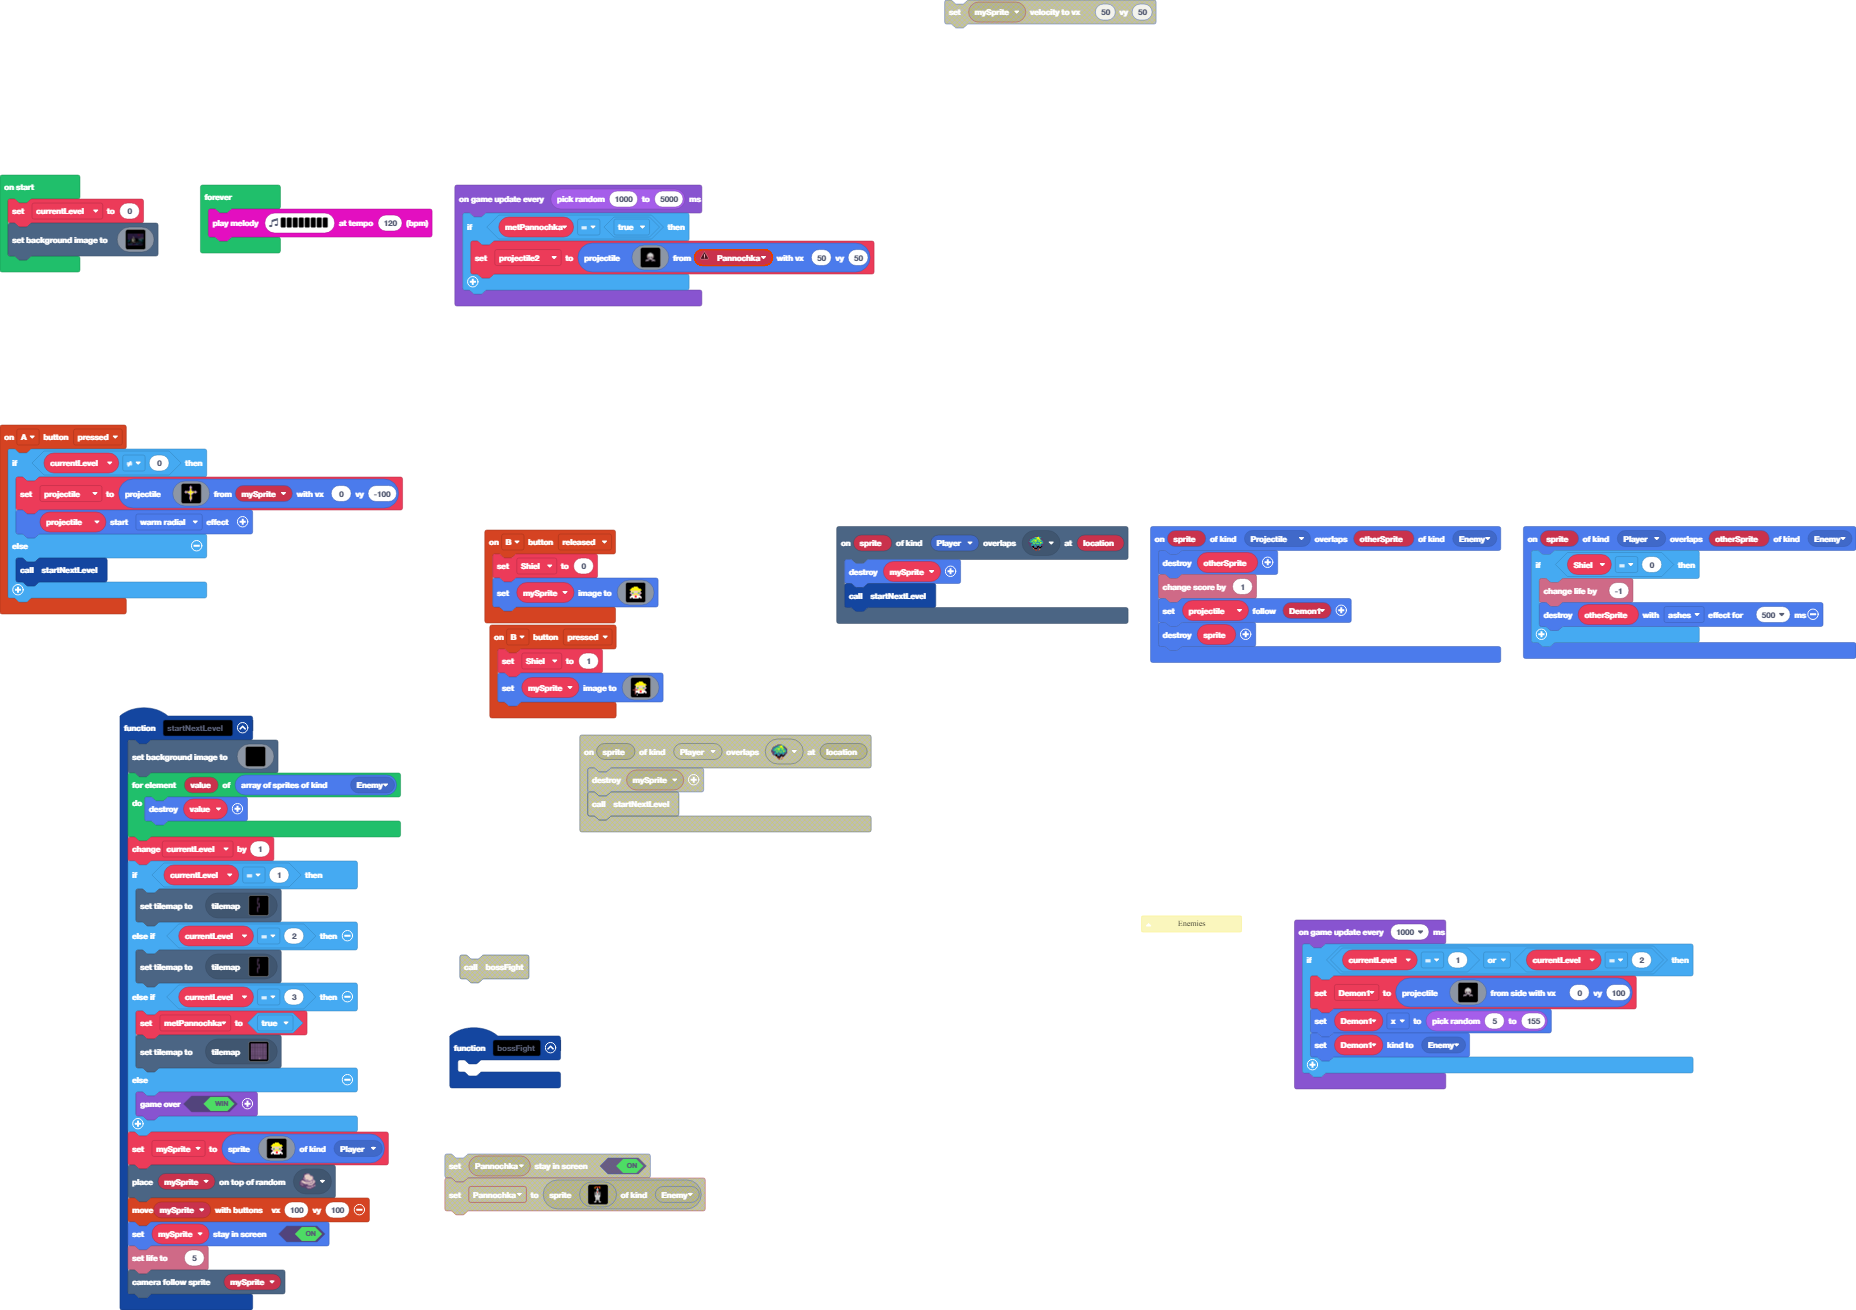
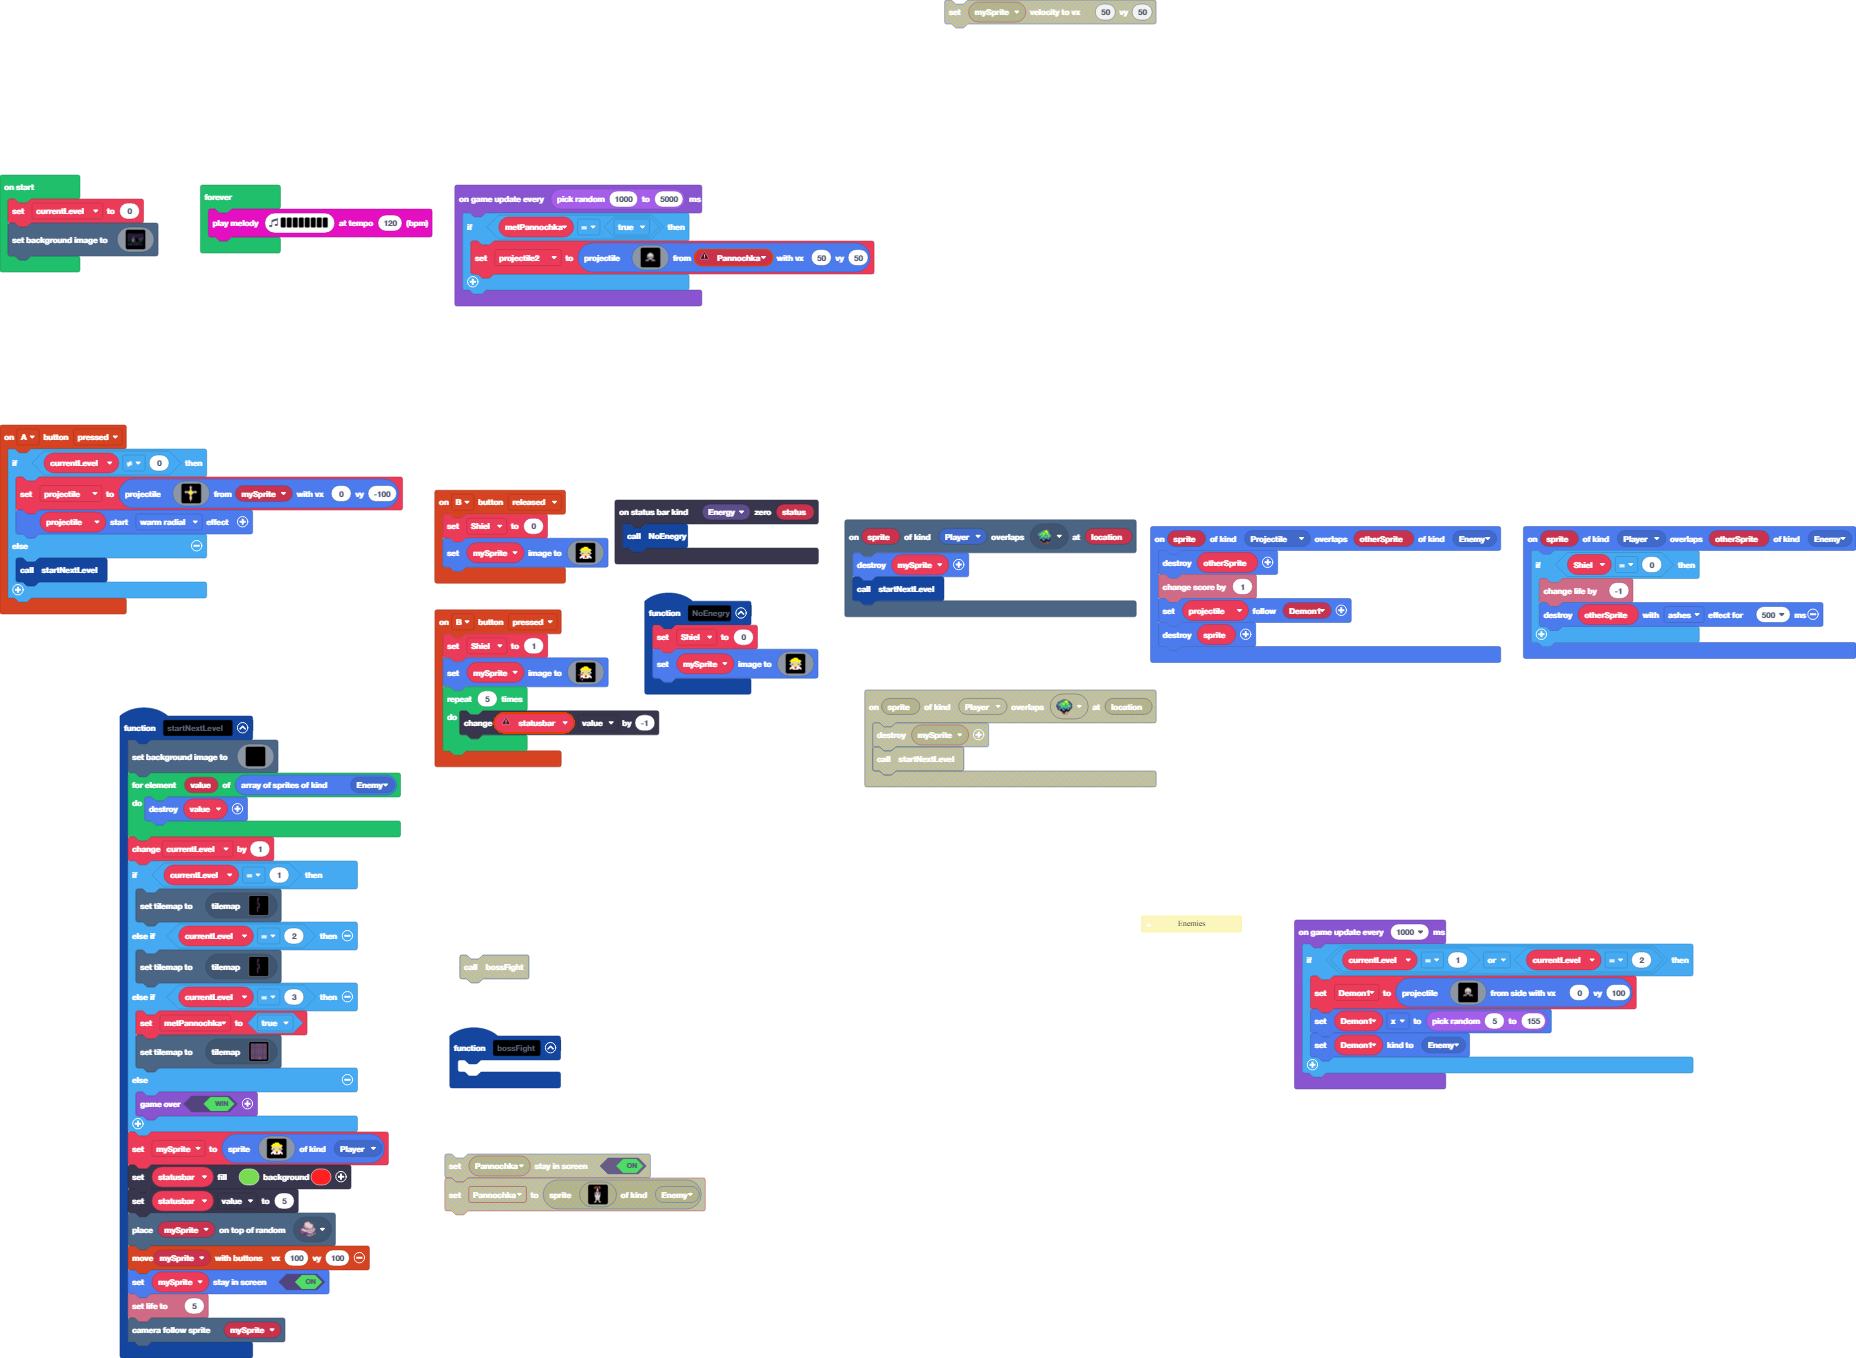
Update main.blocks, main.ts, tilemap.g.jres, tilemap.g.ts

diff --git a/main.ts b/main.ts
@@ -21,6 +21,9 @@ controller.B.onEvent(ControllerButtonEvent.Pressed, function () {
         . . e . . f f f f f f . . . . . 
         . . . . 1 f f . . f f . . . . . 
         `)
+    for (let index = 0; index < 5; index++) {
+        statusbar.value += -1
+    }
 })
 function bossFight () {
 	
@@ -205,6 +208,8 @@ function startNextLevel () {
         . . . . . f f f f f f . . . . . 
         . . . . . f f . . f f . . . . . 
         `, SpriteKind.Player)
+    statusbar.setColor(7, 2)
+    statusbar.value = 5
     tiles.placeOnRandomTile(mySprite, sprites.castle.rock0)
     controller.moveSprite(mySprite, 100, 100)
     mySprite.setStayInScreen(true)
@@ -236,6 +241,9 @@ scene.onOverlapTile(SpriteKind.Player, sprites.castle.saplingOak, function (spri
     mySprite.destroy()
     startNextLevel()
 })
+statusbars.onZero(StatusBarKind.Energy, function (status) {
+    NoEnegry()
+})
 sprites.onOverlap(SpriteKind.Projectile, SpriteKind.Enemy, function (sprite, otherSprite) {
     otherSprite.destroy()
     info.changeScoreBy(1)
@@ -248,10 +256,32 @@ sprites.onOverlap(SpriteKind.Player, SpriteKind.Enemy, function (sprite, otherSp
         otherSprite.destroy(effects.ashes, 500)
     }
 })
+function NoEnegry () {
+    Shiel = 0
+    mySprite.setImage(img`
+        . . . . . . . . . . . . . . . . 
+        . . . . . . . . . . . . . . . . 
+        . . . . . . 5 5 5 5 . . . . . . 
+        . . . . 5 5 5 5 5 5 5 . . . . . 
+        . . . 5 5 5 5 5 5 5 5 5 5 . . . 
+        . . 5 5 5 5 5 5 5 5 5 5 5 5 . . 
+        . . . d d d d d d d d d d . . . 
+        . . . d 5 5 d d d d 5 5 d . . . 
+        . . d d 6 6 d d d d 6 6 d d . . 
+        . . . 3 3 d 5 5 5 5 d 3 3 . . . 
+        . . . . d 5 d d d d 5 d . . . . 
+        . . . 1 1 1 1 2 2 1 1 1 1 . . . 
+        . . 1 1 1 1 1 2 2 1 1 1 1 1 . . 
+        . . d b . 1 1 1 1 1 1 . b d . . 
+        . . . . . f f f f f f . . . . . 
+        . . . . . f f . . f f . . . . . 
+        `)
+}
 let projectile2: Sprite = null
 let Demon1: Sprite = null
 let metPannochka = false
 let projectile: Sprite = null
+let statusbar: StatusBarSprite = null
 let mySprite: Sprite = null
 let Shiel = 0
 let currentLevel = 0

diff --git a/tilemap.g.ts b/tilemap.g.ts
@@ -274,7 +274,7 @@ namespace myTiles {
 2 2 2 2 2 2 2 2 2 2 
 2 . . . . . . . . 2 
 2 . . . . . . . . 2 
-2 . . . . . . . . 2 
+2 2 2 2 2 2 2 2 2 2 
 2 . . . . . . . . 2 
 2 . . . . . . . . 2 
 2 . . . . . . . . 2 
